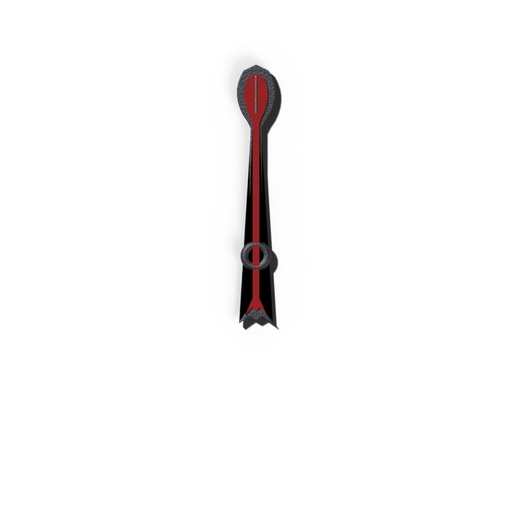
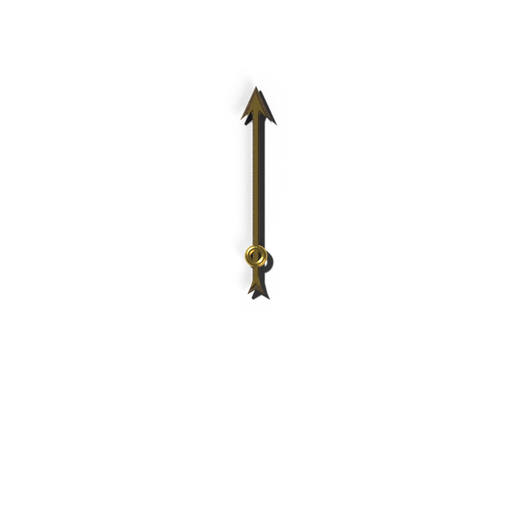
DEM 1.9.0 (untested): the red arm is the north arm; the quest needle is a separate gilded arrow
The owner (2026-11-06, after the first in-game look): the compass graphic stays
still, the red arm points north and the others follow. The art gains a fifth
sprite, north, turned with the rose; the quest needle is re-rendered as a
smaller gilded barbed arrow. Help text and its ten translations updated.

Changed region(s): [[0.4375, 0.125, 0.5625, 0.6562]]

diff --git a/tools/compass/compass_scene.py b/tools/compass/compass_scene.py
@@ -3,7 +3,7 @@ r"""Dragon's Eye Minimap - the Nordic compass, built and rendered in Blender (DE
 Run (Blender 5.x, no GUI):
     blender --background --factory-startup --python tools/compass/compass_scene.py -- <out_dir> [size]
 
-Everything is procedural: no image, font or model comes from outside this file. It renders four
+Everything is procedural: no image, font or model comes from outside this file. It renders five
 transparent PNG layers, each seen straight down through an orthographic camera that covers -1..1 in X and Y
 (the compass's outer edge is radius 0.98, its centre the image centre):
 
@@ -12,13 +12,15 @@ transparent PNG layers, each seen straight down through an orthographic camera t
     rose.png    the compass card that TURNS with the camera heading: a faceted eight-point rose in
                 aged bronze, an interlaced (over-under) knotwork band, N / E / S / W in angular,
                 rune-cut letterforms - north up in the image
-    needle.png  the quest needle that turns to the objective's bearing: a red-enamelled spear arm on
-                an iron spine, a counterweight tail - pointing up in the image
+    north.png   the NORTH arm, which turns with the rose so it always points to world north: a
+                red-enamelled spear arm on an iron spine, a counterweight tail - pointing up in the image
+    needle.png  the quest needle, a separate smaller gilded arrowhead that turns to the objective's
+                bearing - pointing up in the image
     cap.png     fixed, on top: the iron boss over the pivot and a faint glass sheen
 
-The rose, needle and cap each throw their shadow onto a shadow catcher at the face's height, so the
-shadow is in that layer's alpha and moves with it. The DLL stacks the four in this order and sets the
-rose's and the needle's _rotation; tools/compass/build_compass.py turns these PNGs into the SWF.
+The rose, north arm, needle and cap each throw their shadow onto a shadow catcher at the face's height, so the
+shadow is in that layer's alpha and moves with it. The DLL stacks the five in this order and sets the
+rose's, the north arm's and the needle's _rotation; tools/compass/build_compass.py turns these PNGs into the SWF.
 """
 import math
 import sys
@@ -559,16 +561,32 @@ def spear(scale_w, tip_y, blade_base, blade_w, shaft_w, tail_y):
     left = [(-x, y) for x, y in reversed(pts[1:-1])]
     return pts + left
 
+# THE NORTH ARM (layer "north"; the owner, 2026-11-06: "have the red compass north arm point north"). The red-enamelled
+# spear turns with the rose, so it always points to world north.
 iron_outline = spear(1.0, 0.748, 0.53, 0.075, 0.021, -0.26)
-outline_poly(iron_outline, 0.10, "NeedleIron", "needle", iron, z_top=0.118, bevel=0.003)
+outline_poly(iron_outline, 0.10, "NorthIron", "north", iron, z_top=0.118, bevel=0.003)
 enamel_inner = spear(0.62, 0.715, 0.545, 0.075, 0.021, -0.225)
-outline_poly(enamel_inner, 0.118, "NeedleEnamel", "needle", enamel, z_top=0.124)
+outline_poly(enamel_inner, 0.118, "NorthEnamel", "north", enamel, z_top=0.124)
 # a cold-steel spine down the blade
-strokes_mesh("NeedleSpine", "needle", [((0.0, 0.70), (0.0, 0.56))], 0.007, 0.124, 0.13, bevel=0.002)
-assign(bpy.data.objects["NeedleSpine"], silver_iron)
-# the pivot ring of the needle
-pr = revolve("NeedleRing", "needle", [(0.03, 0.118), (0.045, 0.128), (0.06, 0.118), (0.06, 0.1)], segs=64)
+strokes_mesh("NorthSpine", "north", [((0.0, 0.70), (0.0, 0.56))], 0.007, 0.124, 0.13, bevel=0.002)
+assign(bpy.data.objects["NorthSpine"], silver_iron)
+# the pivot ring of the arms
+pr = revolve("NorthRing", "north", [(0.03, 0.118), (0.045, 0.128), (0.06, 0.118), (0.06, 0.1)], segs=64)
 assign(pr, iron)
+
+# THE QUEST NEEDLE (layer "needle"): a separate, smaller pointer that must never be mistaken for the north arm -
+# a gilded barbed arrowhead on a slender shaft, no red, no forked tail, riding above the north arm.
+gilt = principled("Gilt", (0.78, 0.58, 0.22), metallic=1.0, rough=0.24, noise_bump=0.03, noise_scale=170.0, color_var=0.25)
+
+def arrow(sx, tip, barb_y, barb_w, notch_y, shaft_w, tail_y):
+    right = [(0.0, tip), (barb_w * sx, barb_y), (shaft_w * sx * 1.6, notch_y), (shaft_w * sx, notch_y - 0.02),
+             (shaft_w * sx, tail_y + 0.05), (shaft_w * sx * 2.6, tail_y), (0.0, tail_y + 0.02)]
+    return right + [(-x, y) for x, y in reversed(right[1:-1])]
+
+outline_poly(arrow(1.0, 0.665, 0.53, 0.062, 0.565, 0.013, -0.15), 0.135, "QuestIron", "needle", dark_bronze, z_top=0.147, bevel=0.002)
+outline_poly(arrow(0.6, 0.635, 0.545, 0.062, 0.572, 0.013, -0.125), 0.147, "QuestGilt", "needle", gilt, z_top=0.152)
+qr = revolve("QuestRing", "needle", [(0.02, 0.15), (0.032, 0.158), (0.044, 0.15), (0.044, 0.135)], segs=64)
+assign(qr, gilt)
 
 # ================================================================================================ CAP
 boss = revolve("Boss", "cap", [(0.0, 0.17), (0.02, 0.168), (0.035, 0.16), (0.045, 0.145), (0.05, 0.13), (0.05, 0.125)], segs=96)
@@ -625,7 +643,8 @@ catcher.is_shadow_catcher = True
 
 # ------------------------------------------------------------------------------------------------ render each layer
 # each moving layer's shadow falls just under it, so a shadow that turns with its layer stays short
-LAYERS = [("body", [], 0.0), ("rose", ["catcher"], 0.0), ("needle", ["catcher"], 0.075), ("cap", ["catcher"], 0.11)]
+LAYERS = [("body", [], 0.0), ("rose", ["catcher"], 0.0), ("north", ["catcher"], 0.075), ("needle", ["catcher"], 0.11),
+          ("cap", ["catcher"], 0.12)]
 for layer, extra, catcher_z in LAYERS:
     catcher.location.z = catcher_z
     for name, c in collections.items():

diff --git a/tools/gen-translations.py b/tools/gen-translations.py
@@ -378,16 +378,16 @@ TRANSLATIONS["DEM_CompassStyle_Simple"] = T(
     "シンプル", "단순", "简洁", "Простой", "Einfach",
     "Simple", "Sencillo", "Semplice", "Prosty", "Jednoduchý")
 TRANSLATIONS["DEM_HelpCompassStyle"] = T(
-    "ノルド風: 石彫りのコンパス。青銅のローズはカメラに合わせて回り、赤い針は最も近いクエスト目標を指します。シンプル: 文字付きの描画リングです。",
-    "노르드: 돌을 깎아 만든 나침반으로, 청동 장미는 카메라를 따라 돌고 붉은 바늘은 가장 가까운 퀘스트 목표를 가리킵니다. 단순: 글자가 있는 평범한 고리입니다.",
-    "北欧：石刻罗盘，青铜罗盘玫瑰随镜头转动，红色指针指向最近的任务目标。简洁：带方位字母的简单圆环。",
-    "Нордский: резной каменный компас, бронзовая роза которого поворачивается вместе с камерой, а красная стрелка указывает на ближайшую цель задания. Простой: обычное нарисованное кольцо с буквами.",
-    "Nordisch: ein gemeißelter Steinkompass, dessen Bronzerose sich mit der Kamera dreht und dessen rote Nadel auf das nächste Questziel zeigt. Einfach: der schlichte gezeichnete Ring mit Buchstaben.",
-    "Nordique : une boussole en pierre sculptée dont la rose en bronze tourne avec la caméra et dont l'aiguille rouge indique l'objectif de quête le plus proche. Simple : l'anneau dessiné avec ses lettres.",
-    "Nórdico: una brújula de piedra tallada cuya rosa de bronce gira con la cámara y cuya aguja roja señala el objetivo de misión más cercano. Sencillo: el anillo dibujado con letras.",
-    "Nordico: una bussola di pietra scolpita la cui rosa di bronzo ruota con la telecamera e il cui ago rosso indica l'obiettivo della missione più vicino. Semplice: il semplice anello disegnato con le lettere.",
-    "Nordycki: rzeźbiony kamienny kompas, którego brązowa róża obraca się z kamerą, a czerwona igła wskazuje najbliższy cel zadania. Prosty: zwykły rysowany pierścień z literami.",
-    "Severský: tesaný kamenný kompas, jehož bronzová růžice se otáčí s kamerou a červená střelka ukazuje k nejbližšímu cíli úkolu. Jednoduchý: prostý kreslený kruh s písmeny.")
+    "ノルド風: 石彫りのコンパス。赤い針は常に北を指し、金の矢は最も近いクエスト目標を指します。シンプル: 文字付きの描画リングです。",
+    "노르드: 돌을 깎아 만든 나침반으로, 붉은 바늘은 항상 북쪽을, 금빛 화살은 가장 가까운 퀘스트 목표를 가리킵니다. 단순: 글자가 있는 평범한 고리입니다.",
+    "北欧：石刻罗盘，红色指针始终指向北方，金色箭头指向最近的任务目标。简洁：带方位字母的简单圆环。",
+    "Нордский: резной каменный компас, красная стрелка которого всегда указывает на север, а золотая — на ближайшую цель задания. Простой: обычное нарисованное кольцо с буквами.",
+    "Nordisch: ein gemeißelter Steinkompass, dessen roter Zeiger immer nach Norden zeigt und dessen goldener Pfeil auf das nächste Questziel zeigt. Einfach: der schlichte gezeichnete Ring mit Buchstaben.",
+    "Nordique : une boussole en pierre sculptée dont l'aiguille rouge indique toujours le nord et dont la flèche dorée indique l'objectif de quête le plus proche. Simple : l'anneau dessiné avec ses lettres.",
+    "Nórdico: una brújula de piedra tallada cuya aguja roja siempre señala el norte y cuya flecha dorada señala el objetivo de misión más cercano. Sencillo: el anillo dibujado con letras.",
+    "Nordico: una bussola di pietra scolpita il cui ago rosso indica sempre il nord e la cui freccia dorata indica l'obiettivo della missione più vicino. Semplice: il semplice anello disegnato con le lettere.",
+    "Nordycki: rzeźbiony kamienny kompas, którego czerwona igła zawsze wskazuje północ, a złota strzała najbliższy cel zadania. Prosty: zwykły rysowany pierścień z literami.",
+    "Severský: tesaný kamenný kompas, jehož červená střelka vždy ukazuje na sever a zlatá šipka k nejbližšímu cíli úkolu. Jednoduchý: prostý kreslený kruh s písmeny.")
 
 # --- Controls -----------------------------------------------------------------------------------
 TRANSLATIONS["DEM_SecControls"] = T(

diff --git a/source/CompassRing.cpp b/source/CompassRing.cpp
@@ -26,9 +26,9 @@ namespace DEM::compassring
 
 		// 1.9.0 NORDIC STYLE (the owner, 2026-11-06: "a much higher quality graphic generated with Blender that looks like a
 		// real compass ... the quest compass arm is a separate compass arm that points in its direction" - "make it nordic
-		// looking"). The art is rendered by tools/compass/compass_scene.py and packed by build_compass.py into a SWF of four
-		// named sprites, each centred on (0, 0): body (fixed), rose (turns with the camera heading), needle (turns to the
-		// quest bearing), cap (fixed). It is a SWF, not a DDS, because Scaleform cannot load a loose DDS (img:// only finds
+		// looking"). The art is rendered by tools/compass/compass_scene.py and packed by build_compass.py into a SWF of five
+		// named sprites, each centred on (0, 0): body (fixed), rose and north (the red north arm; both turn against the camera
+		// heading, so they point at world north), needle (the gilded quest arm, turns to the quest bearing), cap (fixed). It is a SWF, not a DDS, because Scaleform cannot load a loose DDS (img:// only finds
 		// images the game registered - past-mistakes library, LMU 1.3.3); loadMovie of a SWF under Interface is the route
 		// HUD Position Manager's widgets already prove. Loaded into demNordic.art, a child of our clip at a NEGATIVE depth
 		// so the distance text fields (depths 0..4) stay above it.
@@ -46,6 +46,7 @@ namespace DEM::compassring
 		double g_lastNeedleRot = 0.0;
 		bool g_lastNeedleShown = false;
 		bool g_lastNordicShown = false;
+		bool g_lastNorthShown = false;
 		constexpr const char* kFont = "$EverywhereBoldFont";  // the vanilla HUD's embedded face
 
 		double ToRgb(std::uint32_t a_rgb) { return static_cast<double>(a_rgb & 0xFFFFFFu); }
@@ -362,10 +363,10 @@ namespace DEM::compassring
 		}
 		char nordic[256];
 		std::snprintf(nordic, sizeof(nordic),
-					  ",\"style\":\"%s\",\"nordicArt\":\"%s\",\"nordicShown\":%s,\"roseRotation\":%.1f,\"needleShown\":%s,\"needleRotation\":%.1f",
+					  ",\"style\":\"%s\",\"nordicArt\":\"%s\",\"nordicShown\":%s,\"roseRotation\":%.1f,\"northArm\":%s,\"needleShown\":%s,\"needleRotation\":%.1f",
 					  settings::compass::compassStyle == 0 ? "Nordic" : "Simple",
 					  g_artFailed ? "failed" : (g_artLoaded ? "loaded" : (g_artRequested ? "loading" : "not requested")),
-					  g_lastNordicShown ? "true" : "false", g_lastRoseRot, g_lastNeedleShown ? "true" : "false", g_lastNeedleRot);
+					  g_lastNordicShown ? "true" : "false", g_lastRoseRot, g_lastNorthShown ? "true" : "false", g_lastNeedleShown ? "true" : "false", g_lastNeedleRot);
 		return "{\"modes\":\"" + modes + "\",\"hudElements\":" + std::to_string(count) + ",\"registered\":" + (inList ? "true" : "false") +
 			",\"clipVisible\":" + std::to_string(clipVisible) + ",\"vanillaCompassVisible\":" + std::to_string(holderVisible) + nordic + "}";
 	}
@@ -529,6 +530,12 @@ namespace DEM::compassring
 				// the card turns AGAINST the heading, so north on the card stays on the world's north
 				g_lastRoseRot = -static_cast<double>(heading) * kDeg;
 				if (Child(art, "rose", rose)) { SetNum(rose, "_rotation", g_lastRoseRot); }
+				// the red NORTH arm turns with the rose: it always points to world north (the owner, 2026-11-06: "have
+				// the red compass north arm point north ... the compass rim or graphic stays stationary"). The quest
+				// needle below is a separate, gilded arm.
+				RE::GFxValue northArm;
+				g_lastNorthShown = Child(art, "north", northArm);
+				if (g_lastNorthShown) { SetNum(northArm, "_rotation", g_lastRoseRot); }
 				(void)Child(art, "needle", needleClip);
 				if (!pointerNow && needleClip.IsDisplayObject())
 				{
@@ -623,7 +630,7 @@ namespace DEM::compassring
 				const double nX = baseX + ux * settings::compass::pointerSize * 0.38, nY = baseY + uy * settings::compass::pointerSize * 0.38;
 				if (nordic)
 				{
-					// the red needle turns to the bearing, in the art's own frame (up = 0, clockwise)
+					// the gilded quest needle turns to the bearing, in the art's own frame (up = 0, clockwise)
 					g_lastNeedleRot = a * kDeg;
 					if (needleClip.IsDisplayObject()) { SetNum(needleClip, "_rotation", g_lastNeedleRot); }
 				}

diff --git a/tools/compass/build_compass.py b/tools/compass/build_compass.py
@@ -12,9 +12,10 @@ Why a SWF and not DDS: the compass is drawn in Skyrim's HUD movie (Scaleform), a
 route HUD Position Manager's widgets already prove. The bitmaps are embedded lossless (DefineBitsLossless2, premultiplied
 ARGB) and filled into a square shape with a SMOOTHED clipped bitmap fill, so a rotated layer stays clean.
 
-The SWF's main timeline holds four named sprites, each centred on (0, 0) and 512 px across (the compass's outer edge is
-radius 0.98 of the half-width, 251 px): body, rose, needle, cap - stacked in that order. The DLL sets rose._rotation and
-needle._rotation and scales the whole movie to the minimap's circle. A reskin keeps the names and replaces the art.
+The SWF's main timeline holds five named sprites, each centred on (0, 0) and 512 px across (the compass's outer edge is
+radius 0.98 of the half-width, 251 px): body, rose, north, needle, cap - stacked in that order. The DLL sets
+rose._rotation and north._rotation (both against the heading: they point at world north) and needle._rotation (the quest
+bearing) and scales the whole movie to the minimap's circle. A reskin keeps the names and replaces the art.
 
 --previews <dir> writes each layer plus two composites (north up; turned 45 degrees with the needle elsewhere) there.
 """
@@ -33,7 +34,7 @@ sys.path.insert(0, HERE)
 import swfgen  # noqa: E402  (HUD Position Manager's writer, vendored)
 
 REPO = os.path.dirname(os.path.dirname(HERE))
-LAYERS = ["body", "rose", "needle", "cap"]
+LAYERS = ["body", "rose", "north", "needle", "cap"]
 SIZE = 512
 OUTER_FRACTION = 0.98   # outer edge radius as a fraction of the half-width; the DLL uses the same number
 
@@ -162,14 +163,14 @@ def previews(out_dir):
         c = backdrop()
         for n in LAYERS:
             img = L[n]
-            if n == "rose":
+            if n in ("rose", "north"):
                 img = img.rotate(heading_deg, resample=Image.BICUBIC)         # card turns AGAINST the heading
             elif n == "needle":
                 img = img.rotate(-needle_screen_deg, resample=Image.BICUBIC)  # clockwise screen angle
             c = Image.alpha_composite(c, img)
         return c
 
-    north = compose(0, 0)
+    north = compose(0, 120)          # camera facing north, objective bearing 120 (ESE)
     north.save(os.path.join(out_dir, "composite-north-up.png"))
     turned = compose(45, 120 - 45)   # camera heading 45 (NE), objective bearing 120 (ESE)
     turned.save(os.path.join(out_dir, "composite-heading45-quest120.png"))

diff --git a/source/UI.cpp b/source/UI.cpp
@@ -935,7 +935,7 @@ namespace UI
 				compass::compassStyle = static_cast<std::uint32_t>(style);
 				logger::debug("Compass style set to {} from the settings page", style == 0 ? "Nordic" : "Simple");
 			}
-			HelpMarker(strings::TR("DEM_HelpCompassStyle", "Nordic: a carved stone compass whose bronze rose turns with the camera and whose red needle points to the nearest quest objective. Simple: the plain drawn ring with letters."));
+			HelpMarker(strings::TR("DEM_HelpCompassStyle", "Nordic: a carved stone compass whose red arm always points north and whose gold arrow points to the nearest quest objective. Simple: the plain drawn ring with letters."));
 
 			ImGuiMCP::Toggle(strings::TR("DEM_QuestPointer", "Quest pointer"), &compass::questPointer);
 			HelpMarker(strings::TR("DEM_HelpQuestPointer", "The vanilla-style quest marker with the distance readout, riding the ring or the visible map. Off = never drawn."));

diff --git a/CHANGELOG.md b/CHANGELOG.md
@@ -29,6 +29,7 @@ Written as changes happen, not reconstructed afterwards (rule 61). Each version 
 - **A Nordic compass, rendered in Blender** (the owner, 2026-11-06: "a much higher quality graphic generated with Blender that looks like a real compass ... the quest compass arm is a separate compass arm"; "make it nordic looking"). While the map is hidden, its circle now holds a carved compass in four layers: the fixed body (stone rim with Elder Futhark runes, iron bezel with a lubber wedge at the top, slate face with bronze-inlaid ticks), a bronze knotwork rose with N/E/S/W in angular rune-cut letters that turns against the camera heading, a separate red-enamelled quest needle turned to the nearest displayed objective's bearing, and a fixed iron boss with a glass sheen. The scene is `tools/compass/compass_scene.py` (procedural; no outside art or fonts); `tools/compass/build_compass.py --render` re-renders it and writes `dist/Interface/DragonsEyeMinimap/compass.swf`.
 - The art ships as a SWF of four named sprites (body, rose, needle, cap) with embedded lossless bitmaps, loaded into the HUD with loadMovie, not as DDS: Scaleform cannot load a loose DDS (past-mistakes library, LMU 1.3.3). If it has not arrived after 600 frames, the Simple ring is drawn for the session and the log says why.
 - `uCompassStyle` in [Compass] (0 Nordic, the default; 1 Simple, the drawn ring) and a Compass style row on the settings page, in all eleven languages. Restore defaults resets it.
+- **The red arm is the NORTH arm; the quest needle is a separate gilded arrow** (the owner, 2026-11-06, after the first in-game look: "let's have the compass stay in one shape or position so it doesn't rotate, and have the red compass north arm point north, and the other ones follow suit and point in the right directions, but the compass rim or graphic stays stationary"). The art now has five sprites: body, rose, north, needle, cap. The red-enamelled spear (`north`) turns with the rose, so it always points to world north; the quest needle (`needle`) is a smaller gilded barbed arrowhead on a slender shaft, turned to the objective's bearing. The rim, runes and lubber wedge stay fixed. The hudvis probe also reports `northArm`.
 - In Nordic style the distance readout sits on the stone rim at the bottom; with the map shown, the quest pointer is still the notched arrowhead on the map's edge. uDiscAlpha now also sets the stone body's opacity. The driving tool's HUD probe reports style, art state, rose and needle rotation.
 
 ### Fixed
